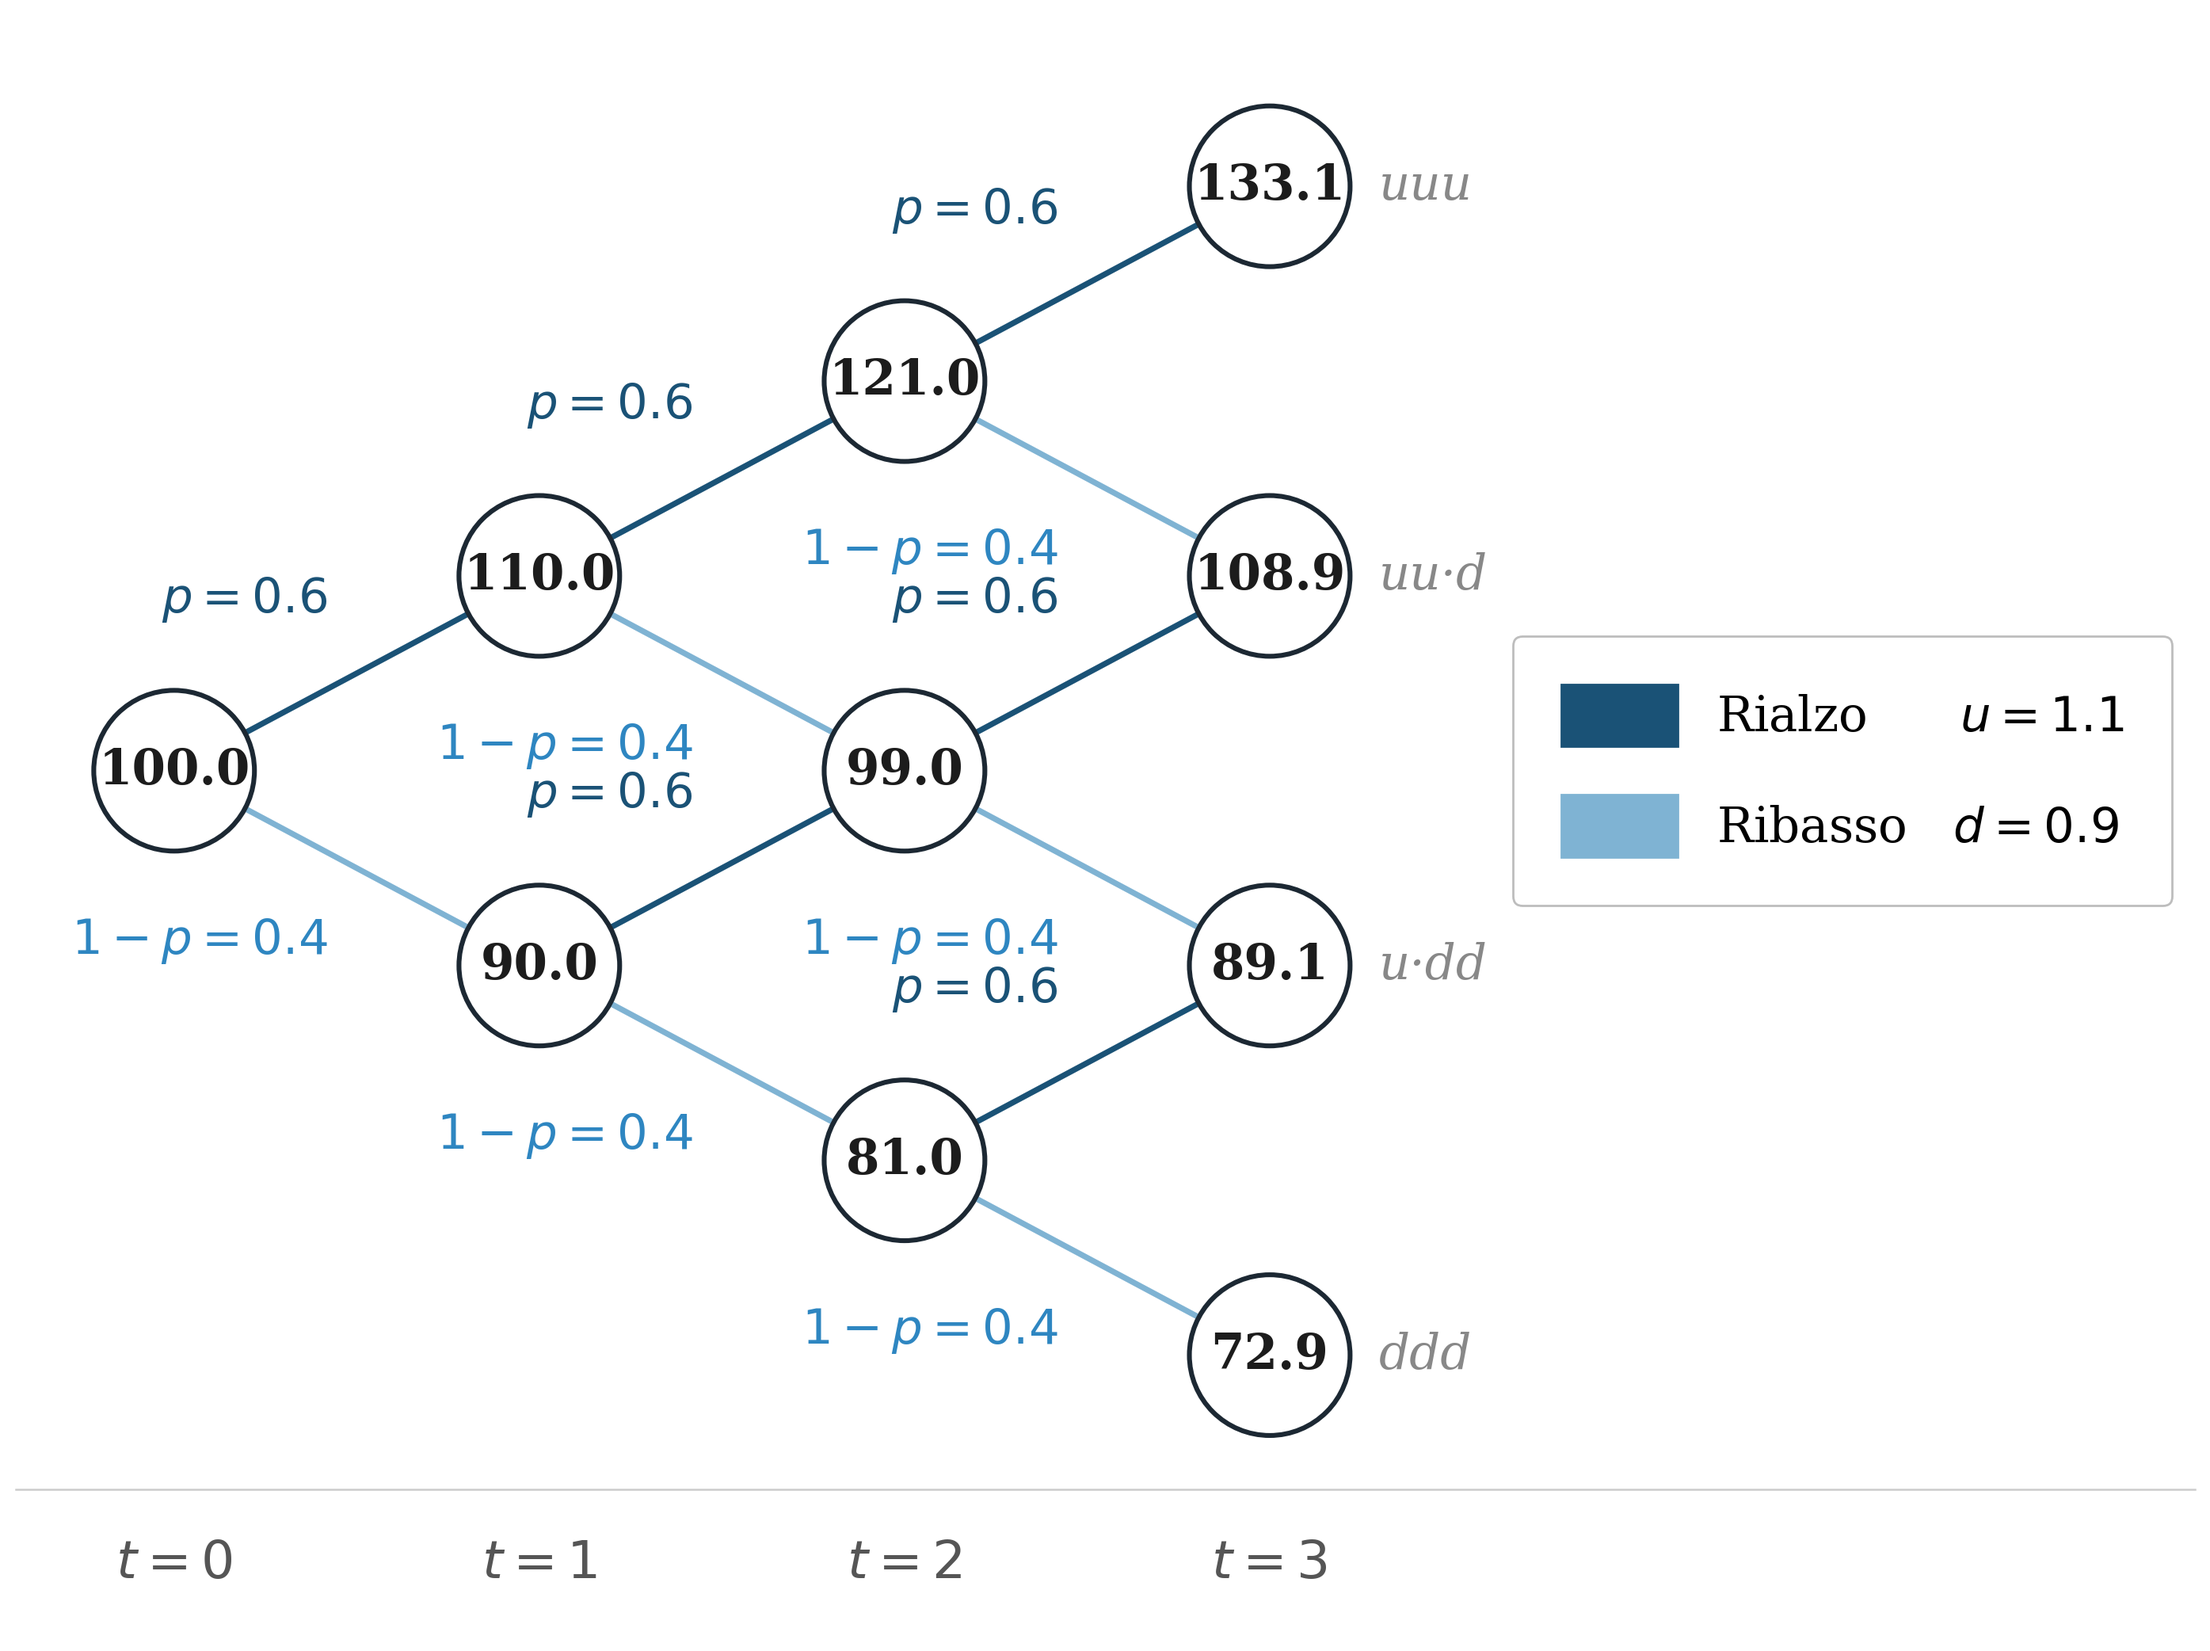
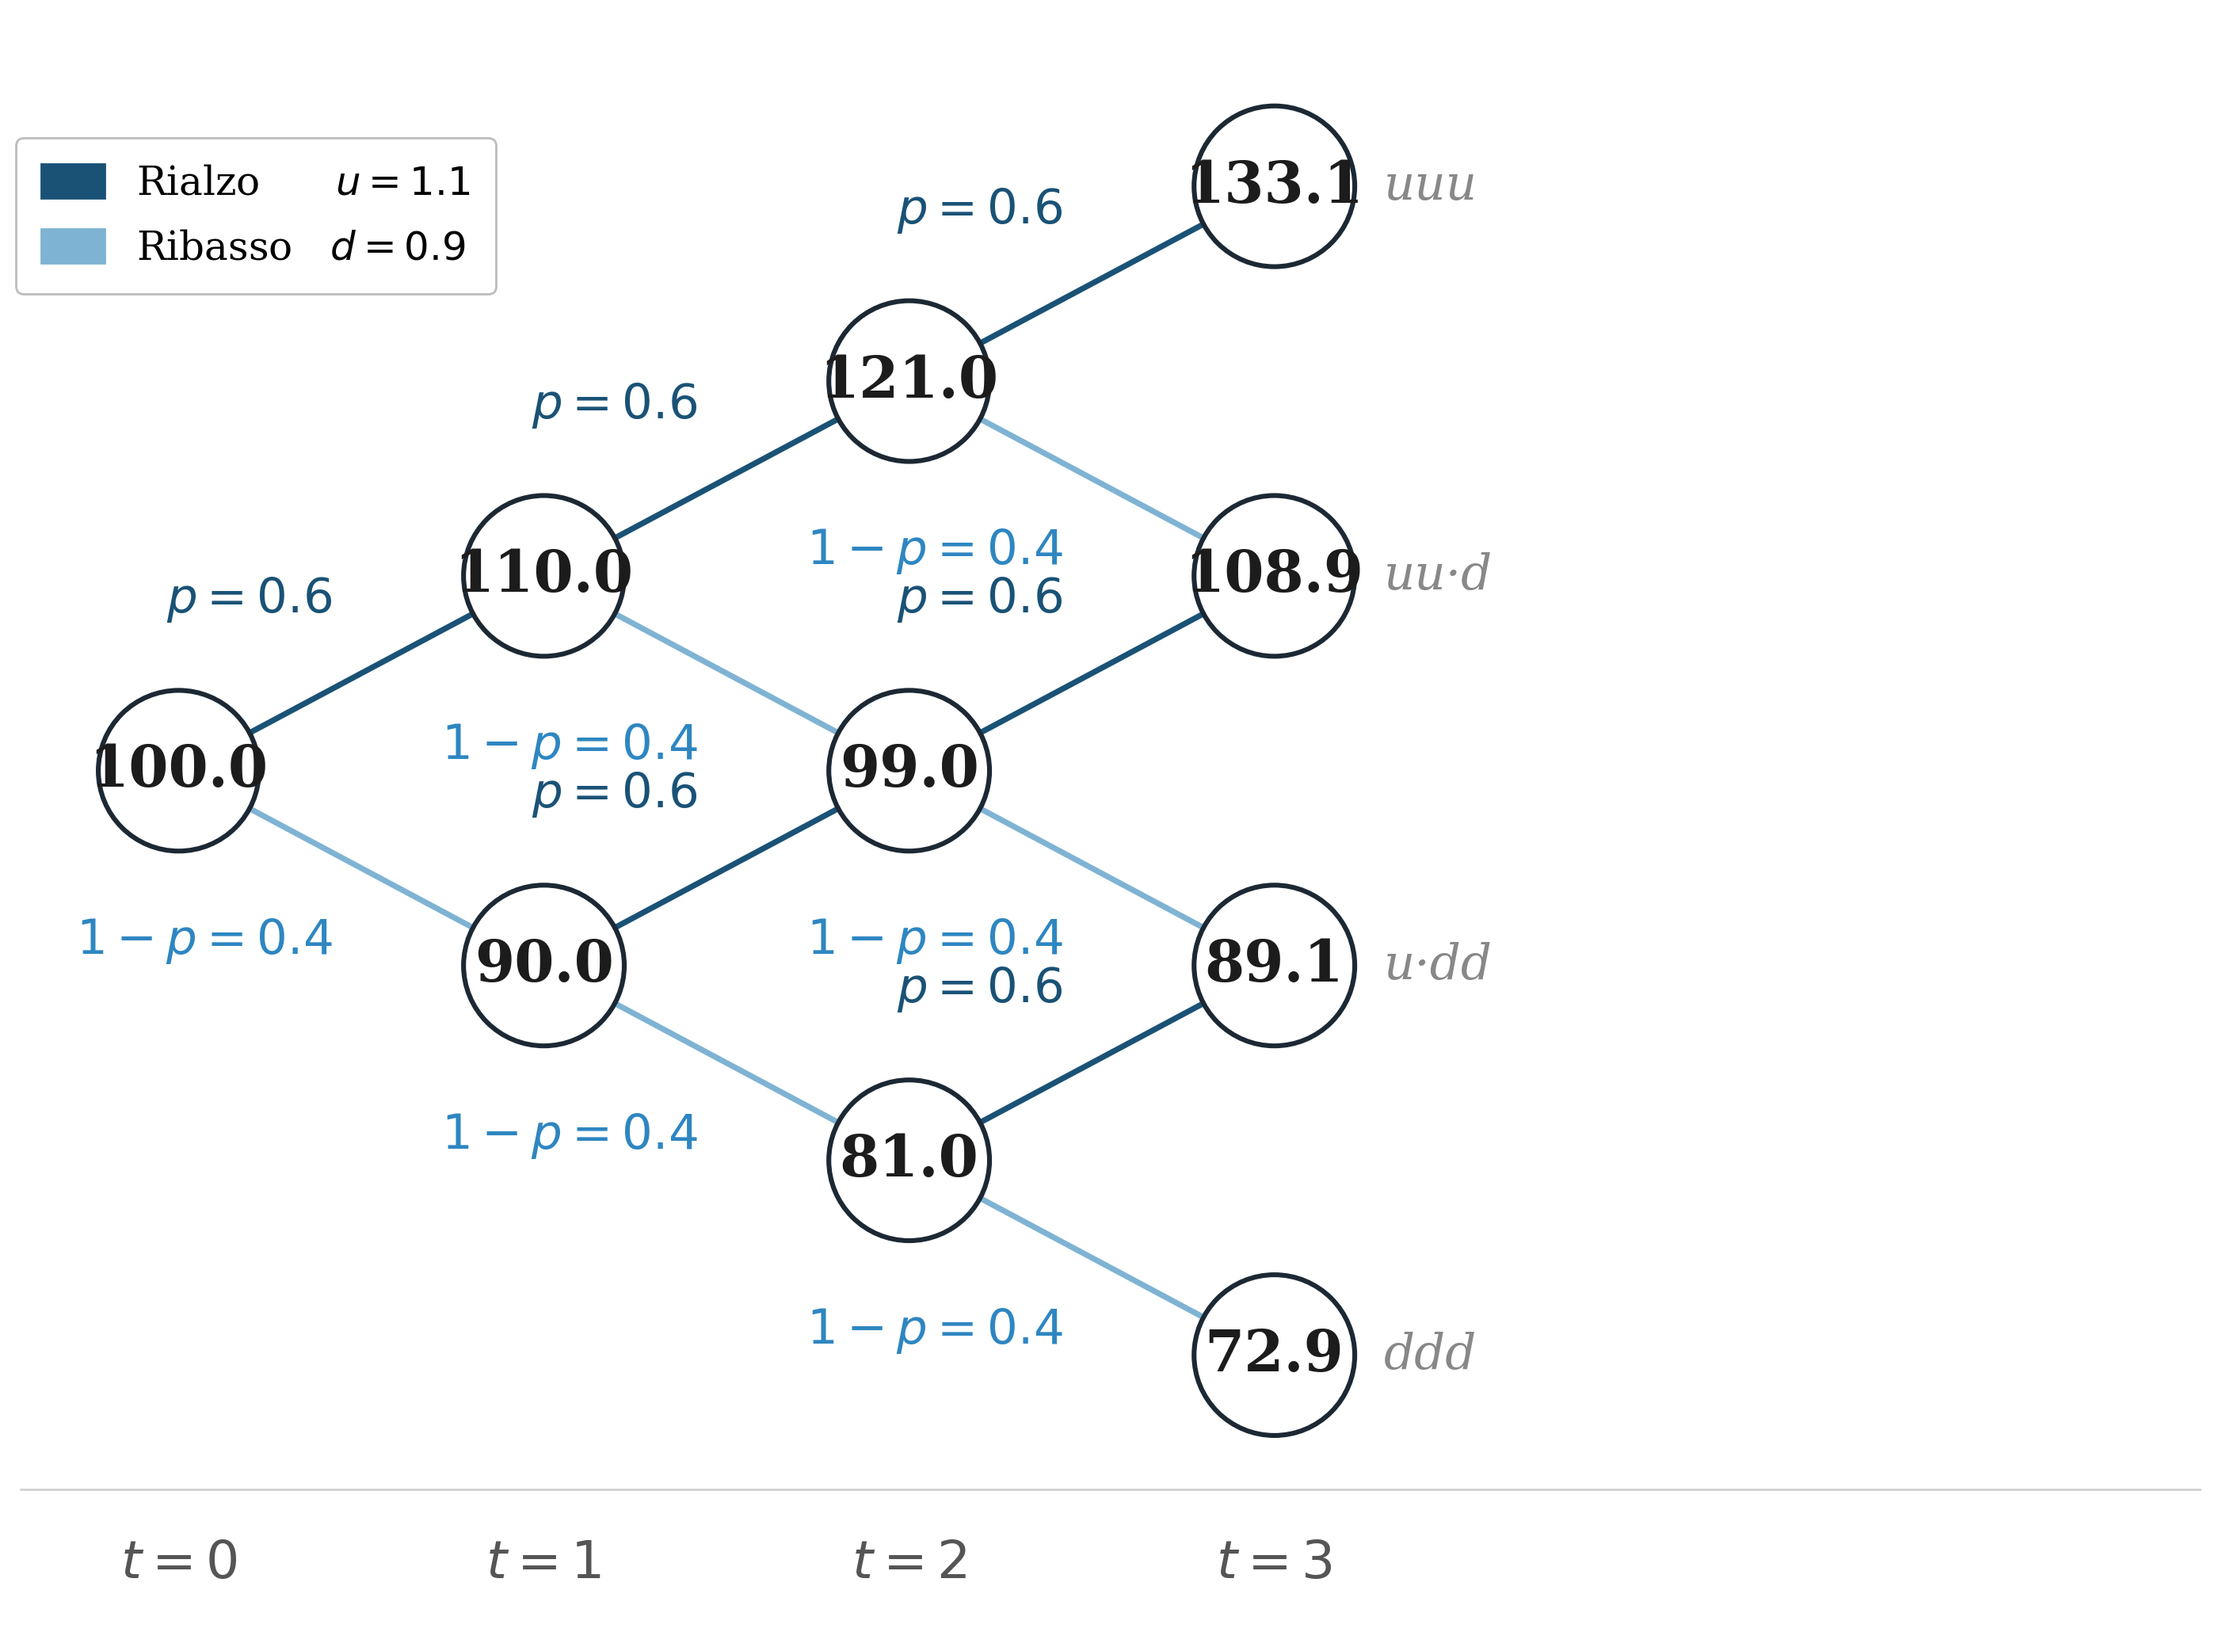
Nuova figura Lez05 Albero Binomiale

diff --git a/04_Codice/Lez05/Cap05_Albero_binomiale.py b/04_Codice/Lez05/Cap05_Albero_binomiale.py
@@ -1,0 +1,176 @@
+# =============================================================
+# Cap04_Figura_4_1_albero_binomiale.py
+# Progetto MQF - Capitolo 4: Processi stocastici
+# Figura 4.1: Albero binomiale completo
+#   S0=100, u=1.1, d=0.9, p=0.6, T=3
+#
+# Output: E:\Didattica\MQF\Github\CORSO-MQF\graphics\Cap04_Figura_4_1.png
+#
+# Dipendenze: matplotlib
+# Esecuzione: python Cap04_Figura_4_1_albero_binomiale.py
+# =============================================================
+
+import os
+import matplotlib
+import matplotlib.pyplot as plt
+import matplotlib.patches as mpatches
+
+# ------------------------------------------------------------
+# Parametri del modello
+# ------------------------------------------------------------
+S0 = 100.0
+u  = 1.1
+d  = 0.9
+p  = 0.6
+T  = 3
+
+# ------------------------------------------------------------
+# Percorso di output
+# ------------------------------------------------------------
+OUTPUT_DIR = r"E:\Didattica\MQF\Github\CORSO-MQF\graphics"
+OUTPUT     = os.path.join(OUTPUT_DIR, "Cap04_Figura_4_1.png")
+os.makedirs(OUTPUT_DIR, exist_ok=True)
+
+# ------------------------------------------------------------
+# Geometria dell'albero
+# XSCALE: spaziatura orizzontale tra periodi
+# YSCALE: spaziatura verticale tra nodi
+# ------------------------------------------------------------
+XSCALE = 1.5
+YSCALE = 1.6
+
+def node_value(t, k):
+    return S0 * (u ** k) * (d ** (t - k))
+
+def node_pos(t, k):
+    return float(t * XSCALE), float((k - t / 2.0) * YSCALE)
+
+nodes = {}
+for t in range(T + 1):
+    for k in range(t + 1):
+        x, y = node_pos(t, k)
+        nodes[(t, k)] = (x, y, node_value(t, k))
+
+# ------------------------------------------------------------
+# Stile grafico (font grandi per proiezione in aula)
+# ------------------------------------------------------------
+matplotlib.rcParams.update({'font.family': 'serif', 'font.size': 26})
+
+fig, ax = plt.subplots(figsize=(18, 11))
+ax.set_aspect('equal')
+ax.axis('off')
+
+COLOR_NODE_EDGE = '#1C2833'
+COLOR_VALUE     = '#1C1C1C'
+COLOR_LABEL     = '#555555'
+COLOR_UP        = '#1A5276'    # blu scuro  - rialzo
+COLOR_DN        = '#7FB3D3'    # azzurro chiaro - ribasso
+COLOR_PROB_UP   = '#1A5276'
+COLOR_PROB_DN   = '#2E86C1'
+RADIUS         = 0.33
+LW_ARROW       = 2.6
+FONT_NODE      = 26
+FONT_PROB      = 22
+FONT_AXIS      = 24
+FONT_TERMINAL  = 22
+
+# ------------------------------------------------------------
+# Archi e probabilita'
+# ------------------------------------------------------------
+for t in range(T):
+    for k in range(t + 1):
+        x0, y0, _ = nodes[(t,   k)]
+        xu, yu, _ = nodes[(t+1, k+1)]
+        xd, yd, _ = nodes[(t+1, k  )]
+
+        # Arco rialzo
+        ax.annotate('', xy=(xu, yu), xytext=(x0, y0),
+            arrowprops=dict(arrowstyle='-|>', color=COLOR_UP,
+                lw=LW_ARROW, mutation_scale=16,
+                shrinkA=RADIUS*72, shrinkB=RADIUS*72))
+        mx  = (x0 + xu) / 2 - 0.12
+        my  = (y0 + yu) / 2 + 0.20
+        ax.text(mx, my, f'$p={p}$', ha='right', va='bottom',
+                fontsize=FONT_PROB, color=COLOR_PROB_UP, fontstyle='italic')
+
+        # Arco ribasso
+        ax.annotate('', xy=(xd, yd), xytext=(x0, y0),
+            arrowprops=dict(arrowstyle='-|>', color=COLOR_DN,
+                lw=LW_ARROW, mutation_scale=16,
+                shrinkA=RADIUS*72, shrinkB=RADIUS*72))
+        mx2 = (x0 + xd) / 2 - 0.12
+        my2 = (y0 + yd) / 2 - 0.20
+        ax.text(mx2, my2, f'$1-p={1-p}$', ha='right', va='top',
+                fontsize=FONT_PROB, color=COLOR_PROB_DN, fontstyle='italic')
+
+# ------------------------------------------------------------
+# Nodi
+# ------------------------------------------------------------
+for (t, k), (x, y, v) in nodes.items():
+    circle = plt.Circle((x, y), RADIUS, color='white',
+                         ec=COLOR_NODE_EDGE, lw=2.2, zorder=3)
+    ax.add_patch(circle)
+    ax.text(x, y, f'{v:.1f}', ha='center', va='center',
+            fontsize=FONT_NODE, color=COLOR_VALUE,
+            fontweight='bold', zorder=4)
+
+# ------------------------------------------------------------
+# Etichette traiettorie terminali
+# ------------------------------------------------------------
+terminal_labels = {
+    (3, 3): 'uuu',
+    (3, 2): 'uu·d',
+    (3, 1): 'u·dd',
+    (3, 0): 'ddd',
+}
+for (t, k), label in terminal_labels.items():
+    x, y, _ = nodes[(t, k)]
+    ax.text(x + 0.45, y, label, ha='left', va='center',
+            fontsize=FONT_TERMINAL, color='#888888', fontstyle='italic')
+
+# ------------------------------------------------------------
+# Asse dei tempi
+# ------------------------------------------------------------
+y_min  = min(y for _, y, _ in nodes.values())
+y_axis = y_min - 0.75
+for t in range(T + 1):
+    x_t = nodes[(t, 0)][0]
+    ax.text(x_t, y_axis, f'$t={t}$', ha='center', va='top',
+            fontsize=FONT_AXIS, color=COLOR_LABEL)
+ax.axhline(y=y_axis + 0.20, color='#CCCCCC', lw=0.9,
+           xmin=0.0, xmax=1.0, clip_on=False)
+
+# ------------------------------------------------------------
+# Legenda: nel quadrante nord-ovest della figura, in posizione compatta
+# ------------------------------------------------------------
+patch_up = mpatches.Patch(color=COLOR_UP,  label=f'Rialzo      $u = {u}$')
+patch_dn = mpatches.Patch(color=COLOR_DN,  label=f'Ribasso   $d = {d}$')
+x_leg = nodes[(0, 0)][0] - 0.75
+y_leg = max(y for _, y, _ in nodes.values()) + 0.28
+ax.legend(
+    handles=[patch_up, patch_dn],
+    loc='upper left',
+    bbox_to_anchor=(x_leg, y_leg),
+    bbox_transform=ax.transData,
+    fontsize=18,
+    framealpha=0.97,
+    edgecolor='#BBBBBB',
+    ncol=1,
+    handlelength=1.6,
+    handleheight=0.95,
+    borderpad=0.65,
+    labelspacing=0.65,
+    columnspacing=0.8,
+)
+
+# ------------------------------------------------------------
+# Margini e salvataggio
+# ------------------------------------------------------------
+x_max = nodes[(T, 0)][0]
+ax.set_xlim(-0.65, x_max + 3.8)
+ax.set_ylim(y_axis - 0.40, max(y for _, y, _ in nodes.values()) + 0.70)
+
+plt.tight_layout()
+plt.savefig(OUTPUT, dpi=200, bbox_inches='tight', facecolor='white')
+plt.close()
+print(f'Figura salvata in: {OUTPUT}')
